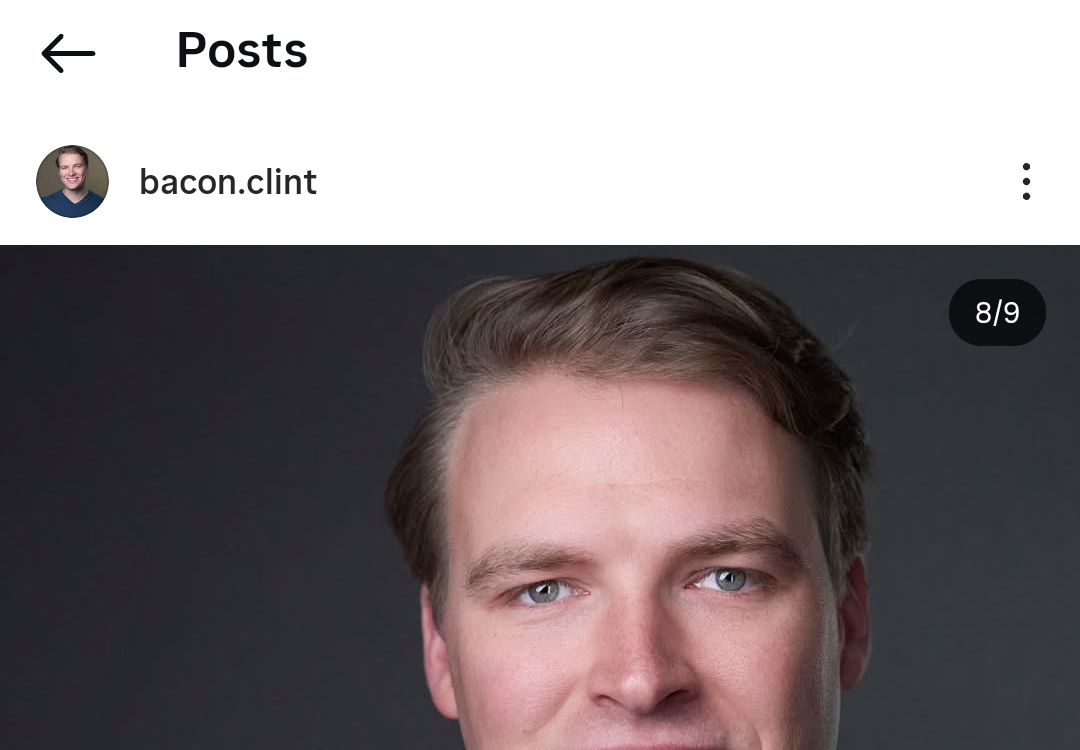
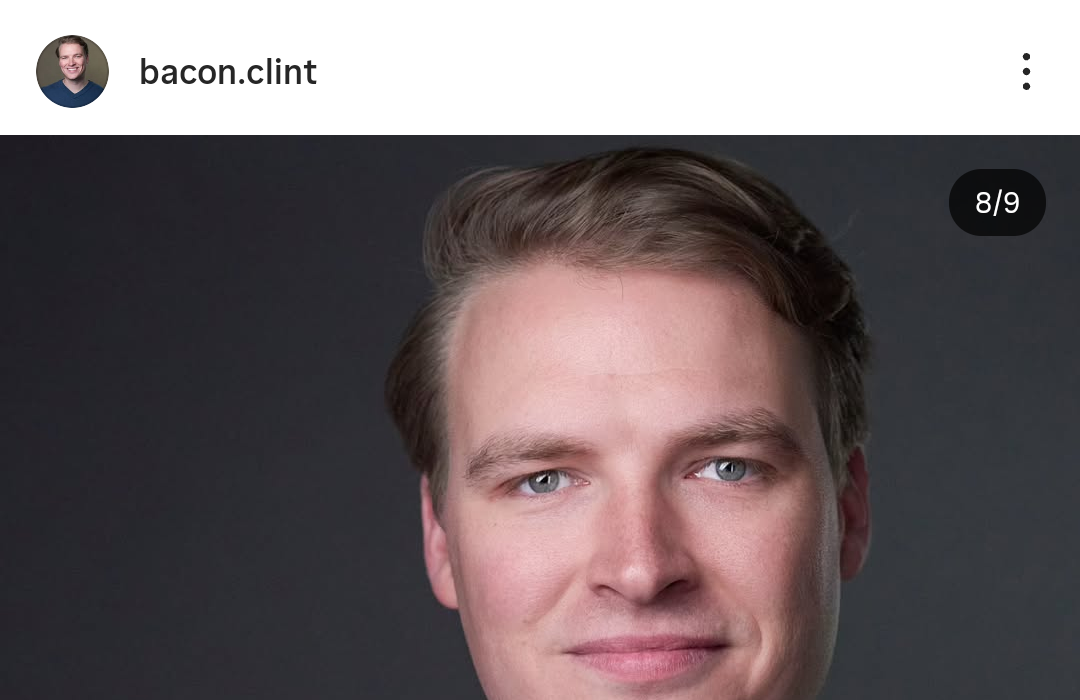
Add comprehensive SEO: meta tags, Open Graph, Twitter cards, Schema.org markup

diff --git a/index.html b/index.html
@@ -3,8 +3,68 @@
 <head>
     <meta charset="UTF-8">
     <meta name="viewport" content="width=device-width, initial-scale=1.0">
-    <title>Clint Bacon | Taylor TX Realtor | Everything is Better with Bacon!</title>
-    <meta name="description" content="Find your dream home in Taylor, Austin, and Central Texas with Clint Bacon, RE/MAX Associates Group. Local expertise, personal service.">
+    
+    <!-- Primary SEO -->
+    <title>Clint Bacon | Taylor TX Realtor | RE/MAX Associates Group</title>
+    <meta name="description" content="Find your dream home in Taylor, Austin, Round Rock, Hutto & Central Texas with Clint Bacon, REALTOR® at RE/MAX Associates Group. Local expertise, personal service. Call (512) 809-8525.">
+    <meta name="keywords" content="Taylor TX realtor, Taylor Texas real estate, Clint Bacon realtor, RE/MAX Taylor, homes for sale Taylor TX, Austin area realtor, Round Rock realtor, Hutto real estate, Central Texas homes, buy home Taylor Texas, sell home Taylor TX">
+    <meta name="author" content="Clint Bacon, RE/MAX Associates Group">
+    <meta name="robots" content="index, follow">
+    <link rel="canonical" href="https://baconsellstexas.com/">
+    
+    <!-- Open Graph / Facebook -->
+    <meta property="og:type" content="website">
+    <meta property="og:url" content="https://baconsellstexas.com/">
+    <meta property="og:title" content="Clint Bacon | Taylor TX Realtor | Everything is Better with Bacon!">
+    <meta property="og:description" content="Find your dream home in Taylor, Austin & Central Texas. Local expertise, personal service. Call (512) 809-8525.">
+    <meta property="og:image" content="https://baconsellstexas.com/clint-photo.png">
+    <meta property="og:locale" content="en_US">
+    
+    <!-- Twitter -->
+    <meta name="twitter:card" content="summary_large_image">
+    <meta name="twitter:url" content="https://baconsellstexas.com/">
+    <meta name="twitter:title" content="Clint Bacon | Taylor TX Realtor">
+    <meta name="twitter:description" content="Find your dream home in Taylor, Austin & Central Texas. Everything is Better with Bacon!">
+    <meta name="twitter:image" content="https://baconsellstexas.com/clint-photo.png">
+    
+    <!-- Local Business Schema -->
+    <script type="application/ld+json">
+    {
+      "@context": "https://schema.org",
+      "@type": "RealEstateAgent",
+      "name": "Clint Bacon - RE/MAX Associates Group",
+      "image": "https://baconsellstexas.com/clint-photo.png",
+      "url": "https://baconsellstexas.com",
+      "telephone": "+1-512-809-8525",
+      "email": "baconsellstexas@gmail.com",
+      "address": {
+        "@type": "PostalAddress",
+        "streetAddress": "906 North Main",
+        "addressLocality": "Taylor",
+        "addressRegion": "TX",
+        "postalCode": "76574",
+        "addressCountry": "US"
+      },
+      "geo": {
+        "@type": "GeoCoordinates",
+        "latitude": 30.5705,
+        "longitude": -97.4092
+      },
+      "areaServed": ["Taylor", "Austin", "Round Rock", "Hutto", "Georgetown", "Cedar Park", "Thrall", "Granger"],
+      "priceRange": "$$",
+      "openingHours": "Mo-Su 08:00-20:00",
+      "sameAs": [
+        "https://www.facebook.com/ClintBaconRealtor",
+        "https://www.facebook.com/BetterwithBaconRE"
+      ]
+    }
+    </script>
+    
+    <!-- Geo tags -->
+    <meta name="geo.region" content="US-TX">
+    <meta name="geo.placename" content="Taylor, Texas">
+    <meta name="geo.position" content="30.5705;-97.4092">
+    <meta name="ICBM" content="30.5705, -97.4092">
     <link rel="preconnect" href="https://fonts.googleapis.com">
     <link href="https://fonts.googleapis.com/css2?family=Playfair+Display:wght@600;700&family=Inter:wght@400;500;600;700&display=swap" rel="stylesheet">
     <style>
